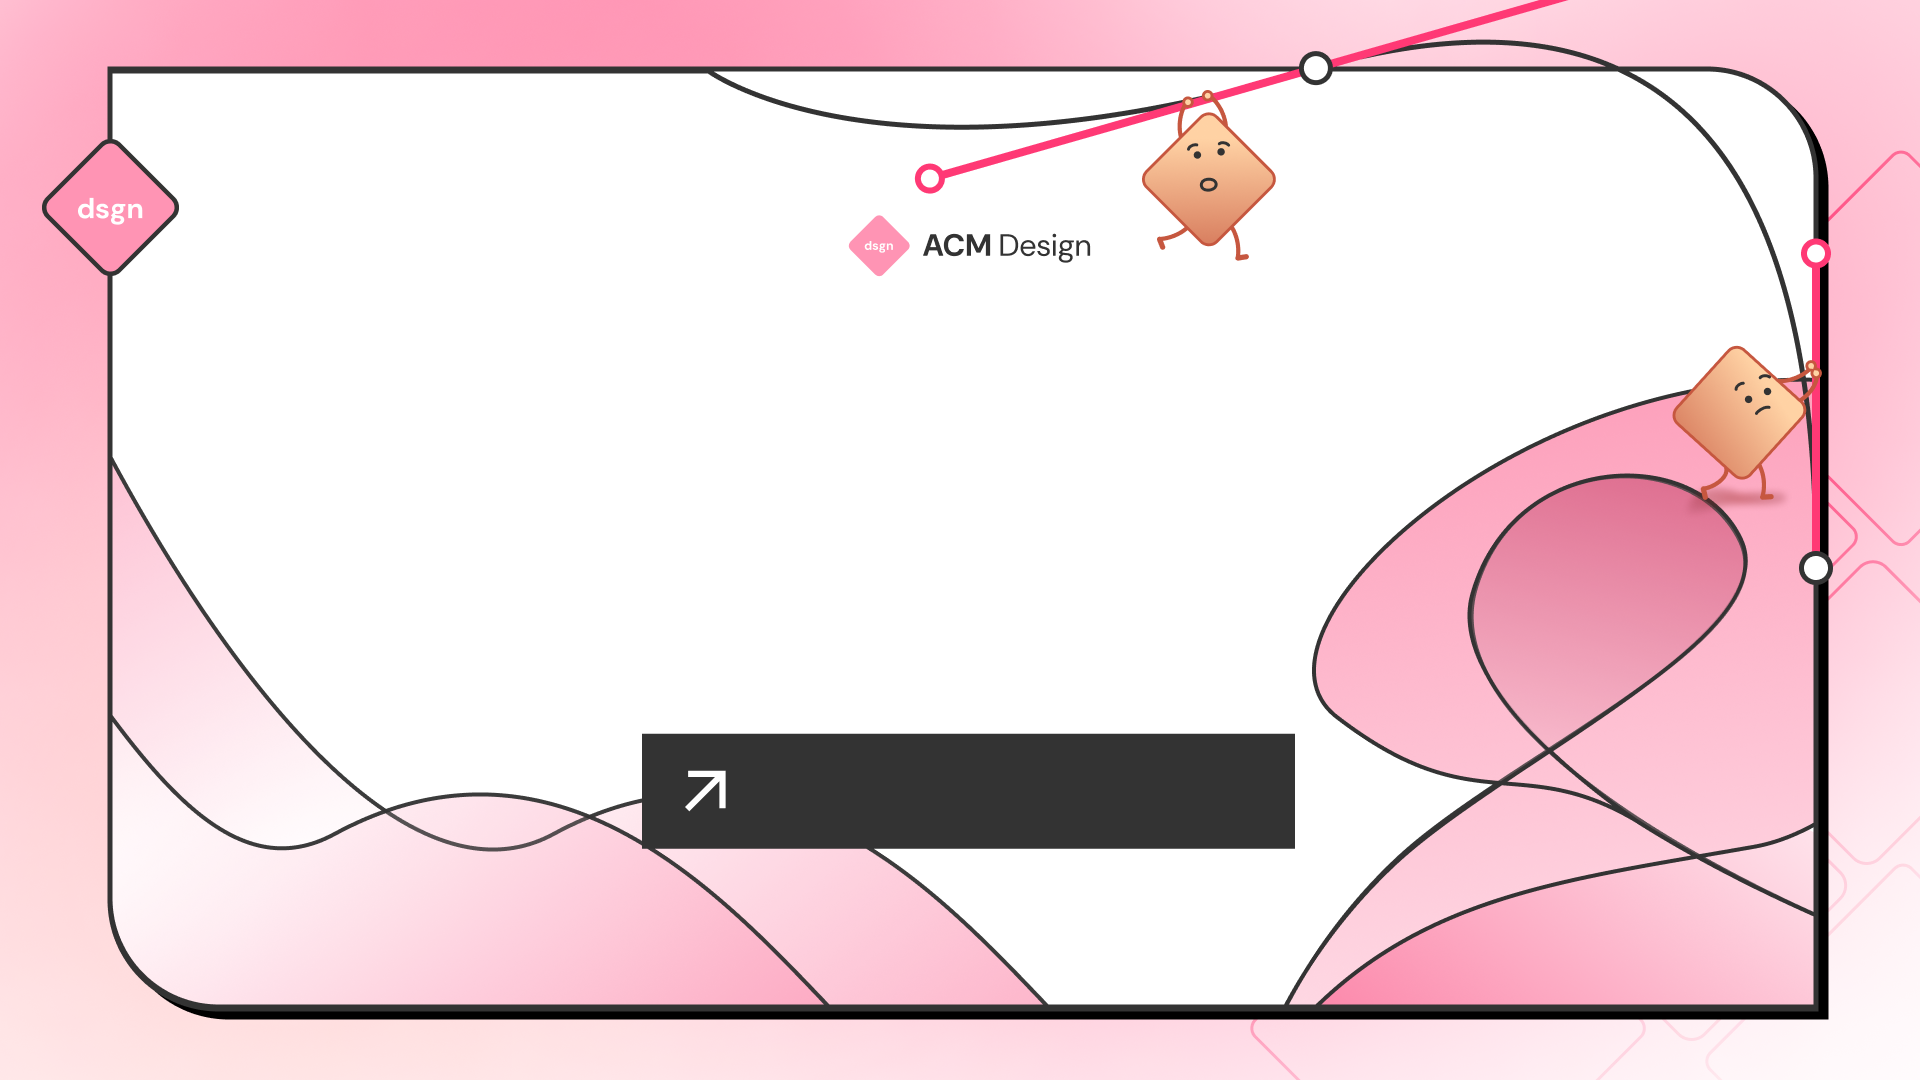
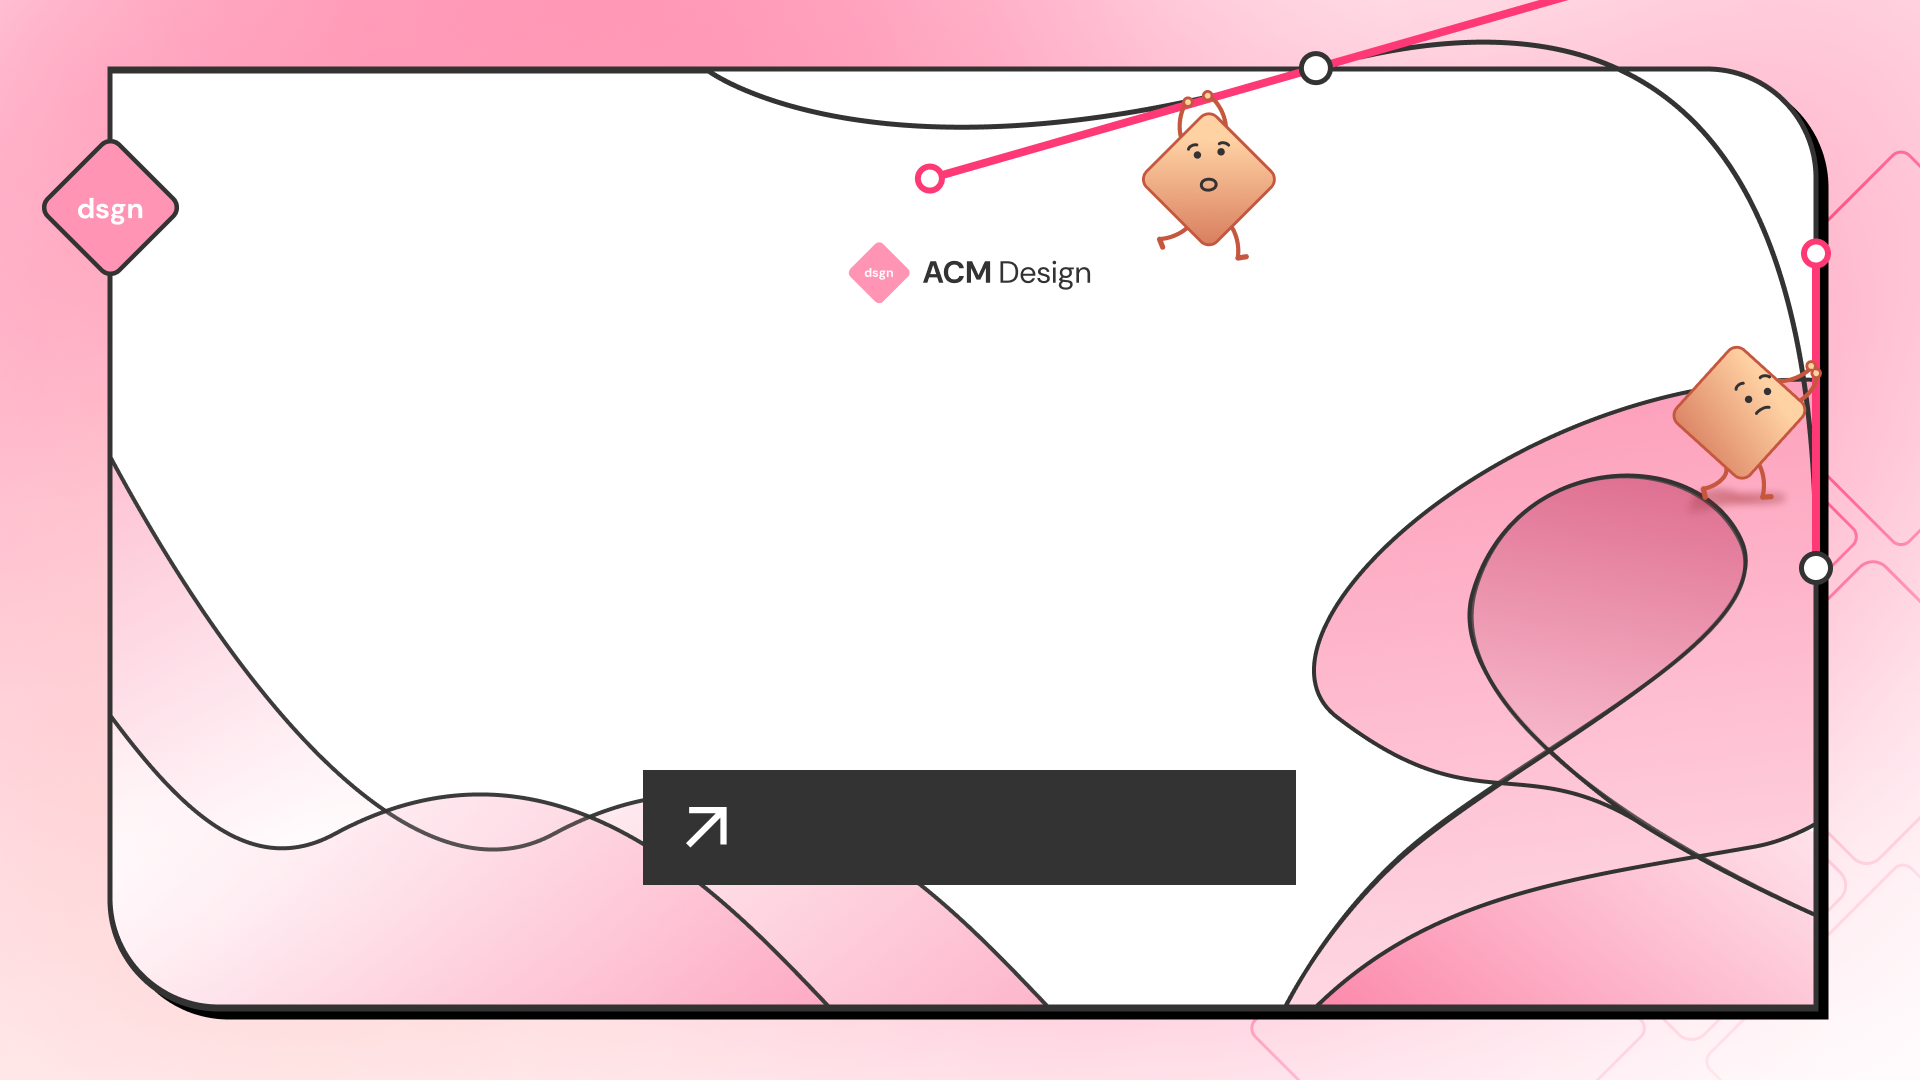
Use `watch` to auto-update template

Changed region(s): [[0.3125, 0.6722, 0.6875, 0.825], [0.4375, 0.1833, 0.5625, 0.275]]

diff --git a/src/components/admin/event/EventDetailsForm/index.tsx b/src/components/admin/event/EventDetailsForm/index.tsx
@@ -47,7 +47,7 @@ const EventDetailsForm = (props: IProps) => {
     register,
     handleSubmit,
     setValue,
-    getValues,
+    watch,
     reset,
     formState: { errors },
   } = useForm<Event>({ defaultValues: initialValues });
@@ -189,10 +189,14 @@ const EventDetailsForm = (props: IProps) => {
     action: 'Reset',
   });
 
-  const formDetails = {
-    title: getValues('title') ?? '',
-    committee: getValues('committee')?.toLowerCase() ?? 'general',
-  };
+  const [eventCommittee, eventTitle, eventStart, eventEnd, eventLocation, eventLink] = watch([
+    'committee',
+    'title',
+    'start',
+    'end',
+    'location',
+    'eventLink',
+  ]);
   const context = useRef<CanvasRenderingContext2D | null>(null);
   useEffect(() => {
     const c = context.current;
@@ -200,21 +204,21 @@ const EventDetailsForm = (props: IProps) => {
       return;
     }
     c.clearRect(0, 0, c.canvas.width, c.canvas.height);
-    c.fillStyle = 'black';
+    c.fillStyle = '#333333';
     c.textAlign = 'center';
     c.textBaseline = 'top';
     c.font = `bold 80px ${dmSans.style.fontFamily}, sans-serif`;
-    c.fillText(formDetails.title, c.canvas.width / 2, 320);
+    c.fillText(eventTitle, 969, 340);
     c.font = `45px ${dmSans.style.fontFamily}, sans-serif`;
-    c.fillText('December 22 - December 24', c.canvas.width / 2, 440);
-    c.fillText('00:00 AM - 00:00 PM', c.canvas.width / 2, 490);
+    c.fillText('December 22 - December 24', 969, 460);
+    c.fillText('00:00 AM - 00:00 PM', 969, 510);
     c.font = `500 45px ${dmSans.style.fontFamily}, sans-serif`;
-    c.fillText('Price Center West', c.canvas.width / 2, 660);
+    c.fillText(eventLocation, 969, 670);
     c.font = `45px ${dmSans.style.fontFamily}, sans-serif`;
     c.textAlign = 'left';
     c.fillStyle = 'white';
-    c.fillText('acmurl.com/whatever', 750, 775);
-  }, [formDetails.title, formDetails.committee]);
+    c.fillText(eventLink || 'acmucsd.com', 756, 810);
+  }, [eventTitle, eventStart, eventEnd, eventLocation, eventLink]);
 
   return (
     <div className={style.container}>
@@ -365,7 +369,7 @@ const EventDetailsForm = (props: IProps) => {
             className={style.eventAutoCover}
             style={{
               backgroundImage: `url("/assets/event-cover-templates/${
-                getValues('committee')?.toLowerCase() || 'general'
+                eventCommittee?.toLowerCase() || 'general'
               }.png")`,
             }}
             ref={canvas => {
